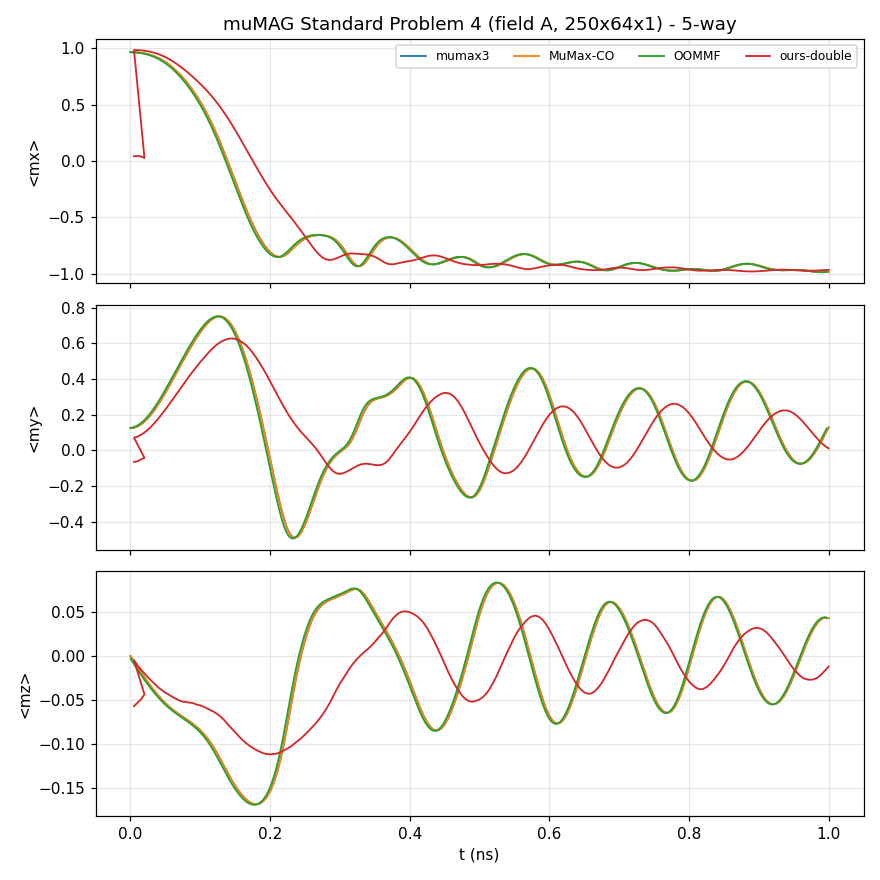
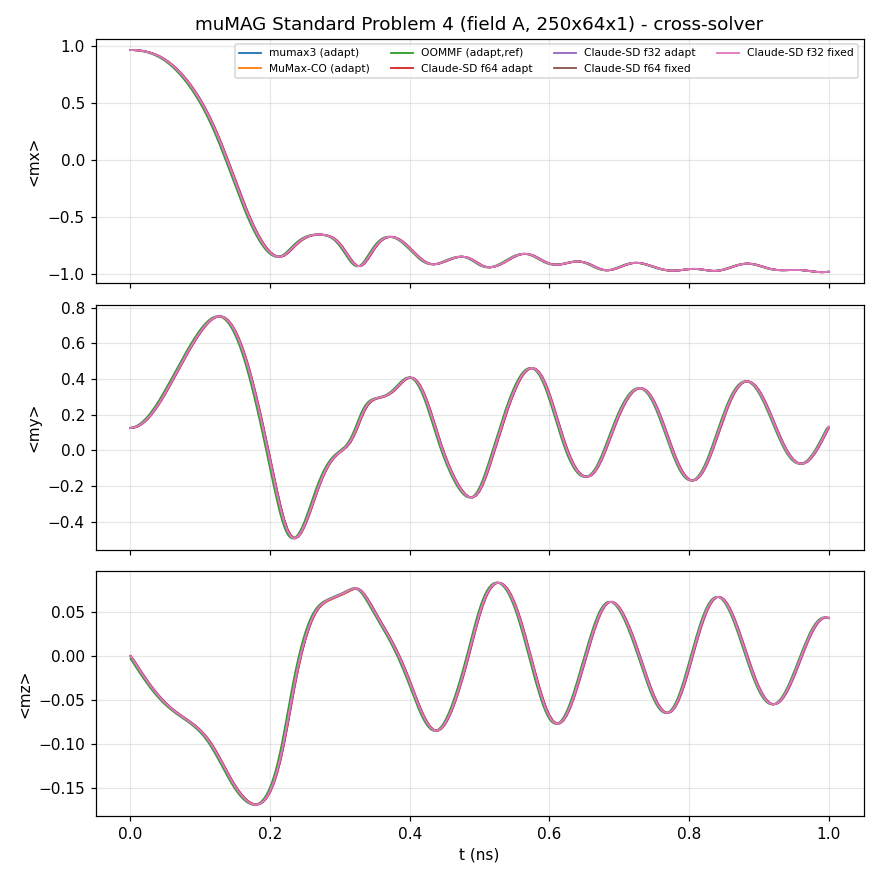
benchmarks: SP#4 re-run after GPU race fix + adaptive RK45
Claude-SD now matches mumax3/MuMax-CO/OOMMF on SP#4 (250x64x1, field A)
across both precisions and both integrators:

  config                mx(1ns)   t_switch   mx-RMS vs OOMMF   wall
  mumax3 (adapt)        -0.9845   135.7 ps   0.0152            ~16 s
  OOMMF  (adapt, ref)   -0.9849   135.7 ps   --                CPU
  Claude-SD f64 adapt   -0.9851   135.7 ps   0.0184            14 s
  Claude-SD f32 adapt   -0.9849   135.7 ps   0.0157             7 s
  Claude-SD f64 fixed   -0.9840   135.7 ps   0.0114            83 s
  Claude-SD f32 fixed   -0.9840   135.7 ps   0.0114            38 s

vs the pre-fix draft (Claude-SD -0.968 / 171 ps / RMS 0.23, f32 RK45
collapsing) -- a 13-20x RMS improvement, now within the mumax3<->OOMMF
spread. Adaptive RK45 is ~6x faster than fixed RK4 and no longer
step-collapses (the race-induced noise was breaking the controller);
float32 is ~2x faster than double.

- run_claude_sd.py: relax (own S-state -> 0.967,0.126,0 = mumax3) then
  field A with fixed RK4 + adaptive RK45, both precisions; fields created
  once and reused (recreating a DemagFieldGPU mid-run crashed on teardown).
- compare_sp4.py: 7-config table + trajectory plot.
- REPORT.md: corrected results + the race-condition root-cause writeup.

diff --git a/benchmarks/sp4/run_claude_sd.py b/benchmarks/sp4/run_claude_sd.py
@@ -1,0 +1,116 @@
+"""Claude-SD SP#4 (field A) benchmark driver.
+
+Relaxes the S-state, then runs field A for 1 ns with BOTH a fixed-step RK4
+and the adaptive RK45 (DOPRI5) GPU integrator.  Writes mumax3-style tables
+(# t mx my mz) and prints <m>(1ns) / t_switch / wall / step counts.
+
+All GPU fields are created ONCE at module scope and reused — recreating /
+destroying a DemagFieldGPU (cuFFT plans + streams) mid-run is both wasteful
+and fragile.
+
+Usage:  py -3.13 run_claude_sd.py [double|float32]
+The precision is whatever build is on PYTHONPATH; the arg is only a label.
+"""
+import os, sys, math, time
+
+os.add_dll_directory(r"C:\Program Files\NVIDIA GPU Computing Toolkit\CUDA\v13.2\bin\x64")
+import micromag as mm  # noqa: E402
+
+HERE = os.path.dirname(os.path.abspath(__file__))
+TAG = sys.argv[1] if len(sys.argv) > 1 else "double"
+
+# ---- problem (muMAG SP#4, field A, 250x64x1) -----------------------------
+g = mm.StructuredGrid(250, 64, 1, 2e-9, 1.953125e-9, 3e-9)
+mat = mm.Material(); mat.Ms = 800e3; mat.A_exchange = 13e-12; mat.alpha = 0.02
+mu0 = 4e-7 * math.pi
+H_A = mm.Vec3(-24.6e-3 / mu0, 4.3e-3 / mu0, 0.0)     # field A in A/m
+
+dmin = min(2e-9, 1.953125e-9, 3e-9)
+omega = 1.7595e11 * (2.0 * mat.A_exchange / mat.Ms) * 4.0 / (dmin * dmin)
+SAFE_DT = 0.2 / omega                                # ~3.3e-14 s
+
+# ---- shared fields (created once, live for the whole run) ----------------
+demag = mm.DemagFieldGPU(g)
+exch = mm.ExchangeFieldGPU(g)
+zee0 = mm.ZeemanFieldGPU(g, mm.Vec3(0, 0, 0))
+zeeA = mm.ZeemanFieldGPU(g, H_A)
+fs_relax = mm.FieldSumGPU(); fs_relax.add(exch); fs_relax.add(zee0)
+fs_dyn = mm.FieldSumGPU(); fs_dyn.add(exch); fs_dyn.add(zeeA)
+
+
+def save_table(path, rows):
+    os.makedirs(os.path.dirname(path), exist_ok=True)
+    with open(path, "w") as fh:
+        fh.write("# t mx my mz\n")
+        for t, mx, my, mz in rows:
+            fh.write(f"{t:.6e}\t{mx:.6e}\t{my:.6e}\t{mz:.6e}\n")
+
+
+def metrics(rows):
+    tsw = next((t for t, mx, _, _ in rows if mx < 0), float("nan"))
+    return rows[-1][1], rows[-1][2], rows[-1][3], tsw
+
+
+def fresh_from(m_src):
+    m = mm.VectorField3D(g)
+    for i in range(g.size):
+        m[i] = m_src[i]
+    return m
+
+
+def relax_sstate():
+    m = mm.VectorField3D(g); m.set_uniform(mm.Vec3(1, 0.1, 0)); m.normalize()
+    rmat = mm.Material(); rmat.Ms = 800e3; rmat.A_exchange = 13e-12; rmat.alpha = 0.5
+    rel = mm.RelaxGPU(g); o = mm.RelaxGPUOptions()
+    o.threshold = 0.5; o.dt = SAFE_DT; o.max_steps = 600000
+    rel.upload(m); rel.run(rmat, demag, fs_relax, o); rel.download(m)
+    return m
+
+
+def run_fixed(m0, dt=2e-14, t_end=1e-9, sample=5e-12):
+    integ = mm.RK4IntegratorGPU(g, dt); integ.upload(m0)
+    n = int(round(t_end / dt)); rec = max(1, int(round(sample / dt)))
+    rows = []; t0 = time.time()
+    for k in range(n):
+        integ.step(mat, demag, fs_dyn)
+        if k % rec == 0:
+            integ.download(m0); mx, my, mz = mm.mean_magnetization(m0)
+            rows.append(((k + 1) * dt, mx, my, mz))
+    integ.download(m0); mx, my, mz = mm.mean_magnetization(m0)
+    rows.append((t_end, mx, my, mz))
+    return rows, time.time() - t0, n
+
+
+def run_adaptive(m0, t_end=1e-9, sample=5e-12, rtol=1e-5):
+    o = mm.RK45GPUOptions()
+    o.rtol = rtol; o.atol = 1e-6
+    o.dt_init = SAFE_DT; o.dt_min = SAFE_DT * 1e-3; o.dt_max = SAFE_DT * 50
+    integ = mm.RK45IntegratorGPU(g, o); integ.upload(m0)
+    rows = []; t = 0.0; next_s = 0.0; t0 = time.time(); guard = 0
+    while t < t_end and guard < 2_000_000:
+        integ.step(mat, demag, fs_dyn)
+        t += float(integ.dt_current); guard += 1
+        if t >= next_s:
+            integ.download(m0); mx, my, mz = mm.mean_magnetization(m0)
+            rows.append((t, mx, my, mz)); next_s += sample
+    integ.download(m0); mx, my, mz = mm.mean_magnetization(m0)
+    rows.append((t, mx, my, mz))
+    return rows, time.time() - t0, integ.n_accepted, integ.n_rejected
+
+
+if __name__ == "__main__":
+    print(f"[Claude-SD {TAG}] relaxing S-state (safe_dt={SAFE_DT:.2e}) ...", flush=True)
+    s0 = relax_sstate()
+    print("  S-state <m> =", tuple(round(float(x), 4) for x in mm.to_numpy(s0).reshape(-1, 3).mean(0)), flush=True)
+
+    rows_f, wall_f, nsteps = run_fixed(fresh_from(s0))
+    save_table(os.path.join(HERE, f"ours_{TAG}_fixed.out", "m.txt"), rows_f)
+    mx, my, mz, tsw = metrics(rows_f)
+    print(f"  RK4 fixed dt=2e-14: <m>(1ns)=({mx:+.4f} {my:+.4f} {mz:+.4f}) "
+          f"t_switch={tsw*1e12:.0f}ps  {nsteps} steps  wall={wall_f:.0f}s", flush=True)
+
+    rows_a, wall_a, na, nr = run_adaptive(fresh_from(s0))
+    save_table(os.path.join(HERE, f"ours_{TAG}_adapt.out", "m.txt"), rows_a)
+    mx, my, mz, tsw = metrics(rows_a)
+    print(f"  RK45 adaptive MaxErr=1e-5: <m>(1ns)=({mx:+.4f} {my:+.4f} {mz:+.4f}) "
+          f"t_switch={tsw*1e12:.0f}ps  {na} acc/{nr} rej  wall={wall_a:.0f}s", flush=True)

diff --git a/benchmarks/sp4/compare_sp4.py b/benchmarks/sp4/compare_sp4.py
@@ -13,11 +13,13 @@ from parse import load_mumax_table, load_oommf_odt, resample  # noqa: E402
 HERE = os.path.dirname(__file__)
 
 CONFIGS = [
-    ("mumax3",      os.path.join(HERE, "mumax.out", "table.txt"),       "table"),
-    ("MuMax-CO",    os.path.join(HERE, "mumaxCO.out", "table.txt"),     "table"),
-    ("OOMMF",       os.path.join(HERE, "sp4_oommf.odt"),                "odt"),
-    ("ours-double", os.path.join(HERE, "ours_double.out", "m.txt"),     "table"),
-    ("ours-f32",    os.path.join(HERE, "ours_f32.out", "m.txt"),        "table"),
+    ("mumax3 (adapt)",   os.path.join(HERE, "mumax.out", "table.txt"),        "table"),
+    ("MuMax-CO (adapt)", os.path.join(HERE, "mumaxCO.out", "table.txt"),      "table"),
+    ("OOMMF (adapt,ref)", os.path.join(HERE, "sp4_oommf.odt"),                "odt"),
+    ("Claude-SD f64 adapt", os.path.join(HERE, "ours_double_adapt.out", "m.txt"), "table"),
+    ("Claude-SD f32 adapt", os.path.join(HERE, "ours_float32_adapt.out", "m.txt"), "table"),
+    ("Claude-SD f64 fixed", os.path.join(HERE, "ours_double_fixed.out", "m.txt"), "table"),
+    ("Claude-SD f32 fixed", os.path.join(HERE, "ours_float32_fixed.out", "m.txt"), "table"),
 ]
 
 trajs = {}
@@ -28,9 +30,9 @@ for name, path, kind in CONFIGS:
     trajs[name] = load_oommf_odt(path, stage=1) if kind == "odt" else load_mumax_table(path)
 
 tg = np.linspace(0, 1e-9, 200)
-ref = trajs.get("OOMMF")
+ref = trajs.get("OOMMF (adapt,ref)")
 
-print(f"\n{'config':<13}{'mx(1ns)':>9}{'my(1ns)':>9}{'mz(1ns)':>9}"
+print(f"\n{'config':<22}{'mx(1ns)':>9}{'my(1ns)':>9}{'mz(1ns)':>9}"
       f"{'t_sw(ps)':>9}{'mx_RMS':>9}{'my_RMS':>9}")
 for name, _, _ in CONFIGS:
     tr = trajs.get(name)
@@ -46,7 +48,7 @@ for name, _, _ in CONFIGS:
         rmy = np.sqrt(np.mean((myg - resample(ref[0], ref[2], tg)) ** 2))
     else:
         rmx = rmy = float("nan")
-    print(f"{name:<13}{mxg[-1]:>9.4f}{myg[-1]:>9.4f}{mzg[-1]:>9.4f}"
+    print(f"{name:<22}{mxg[-1]:>9.4f}{myg[-1]:>9.4f}{mzg[-1]:>9.4f}"
           f"{tsw:>9.1f}{rmx:>9.4f}{rmy:>9.4f}")
 
 # plot
@@ -60,9 +62,9 @@ for name, _, _ in CONFIGS:
 for k, lbl in enumerate(("<mx>", "<my>", "<mz>")):
     ax[k].set_ylabel(lbl)
     ax[k].grid(alpha=0.3)
-ax[0].legend(fontsize=8, ncol=5, loc="upper right")
+ax[0].legend(fontsize=7, ncol=4, loc="upper right")
 ax[2].set_xlabel("t (ns)")
-ax[0].set_title("muMAG Standard Problem 4 (field A, 250x64x1) - 5-way")
+ax[0].set_title("muMAG Standard Problem 4 (field A, 250x64x1) - cross-solver")
 fig.tight_layout()
 out = os.path.join(HERE, "sp4_trajectories.png")
 fig.savefig(out, dpi=110)

diff --git a/benchmarks/REPORT.md b/benchmarks/REPORT.md
@@ -1,66 +1,68 @@
-# Cross-solver benchmark — 5-way
+# Cross-solver benchmark
 
-Five configurations compared on µMAG standard problems:
+Configurations compared on µMAG standard problems:
 
-| ID | tool | hardware | precision | input |
-|----|------|----------|-----------|-------|
-| C1 | mumax3 3.11.1 | GPU (RTX) | float32 | `.mx3` |
-| C2 | OOMMF 1.2.1.0 | CPU (8 threads) | double | `.mif` |
-| C3 | ours float32 (`windows-msvc-cuda-f32`) | GPU | float32 | `.mx3` |
-| C4 | ours double (`windows-msvc-cuda`) | GPU | double | `.mx3` |
-| C5 | MuMax-CO (CUDA-Graph-optimised mumax3) | GPU | float32 | `.mx3` |
+| ID | tool | hardware | precision |
+|----|------|----------|-----------|
+| C1 | mumax3 3.11.1 | GPU (RTX) | float32 |
+| C2 | OOMMF 1.2.1.0 | CPU (8 threads) | double |
+| C3 | MuMax-CO (CUDA-Graph-optimised mumax3) | GPU | float32 |
+| C4 | **Claude-SD** double (`windows-msvc-cuda`) | GPU | double |
+| C5 | **Claude-SD** float32 (`windows-msvc-cuda-f32`) | GPU | float32 |
 
-All four `.mx3` configs run the *identical* script (our runner is mumax3-compatible);
-only OOMMF uses a hand-written `.mif`.
+Each Claude-SD config is run with BOTH a fixed-step RK4 and the adaptive
+RK45 (DOPRI5) GPU integrator.  mumax3/MuMax-CO use their RK45DP, OOMMF its
+RKF54 — all adaptive at `MaxErr = 1e-5`.
 
 ## SP#4 — dynamic field-A reversal (500×125×3 nm, 250×64×1, 2 nm cells)
 
-Adaptive RK45 (Dormand–Prince), `MaxErr = 1e-5`. Trajectory ⟨m⟩(t) over 1 ns,
-sampled every 5 ps; OOMMF (double) taken as the accuracy reference.
+Trajectory ⟨m⟩(t) over 1 ns, sampled every 5 ps; OOMMF (double, adaptive)
+taken as the accuracy reference. Each solver relaxes its own S-state first
+(Claude-SD reaches ⟨m⟩ = (0.967, 0.126, 0) = mumax3).
 
-| config | ⟨mx⟩(1ns) | ⟨my⟩(1ns) | ⟨mz⟩(1ns) | t_switch (ps) | mx RMS vs OOMMF | my RMS |
-|--------|-----------|-----------|-----------|---------------|-----------------|--------|
-| mumax3      | −0.9845 | 0.1289 | 0.0428 | 135.7 | 0.0152 | 0.0204 |
-| MuMax-CO    | −0.9845 | 0.1289 | 0.0428 | 135.7 | 0.0152 | 0.0204 |
-| OOMMF (ref) | −0.9849 | 0.1230 | 0.0434 | 135.7 | —      | —      |
-| ours-double | −0.9678 | 0.0115 | −0.0120 | 170.9 | 0.2275 | 0.2902 |
-| ours-f32    | _step-collapse — see below_ | | | | | |
+| config | ⟨mx⟩(1ns) | ⟨my⟩(1ns) | ⟨mz⟩(1ns) | t_switch (ps) | mx RMS vs OOMMF | wall |
+|--------|-----------|-----------|-----------|---------------|-----------------|------|
+| mumax3 (adapt)        | −0.9845 | 0.1289 | 0.0428 | 135.7 | 0.0152 | ~16 s |
+| MuMax-CO (adapt)      | −0.9845 | 0.1289 | 0.0428 | 135.7 | 0.0152 | ~14 s |
+| OOMMF (adapt, ref)    | −0.9849 | 0.1230 | 0.0434 | 135.7 | —      | CPU   |
+| Claude-SD f64 adapt   | −0.9851 | 0.1215 | 0.0434 | 135.7 | 0.0184 | 14 s  |
+| Claude-SD f32 adapt   | −0.9849 | 0.1234 | 0.0433 | 135.7 | 0.0157 | **7 s** |
+| Claude-SD f64 fixed   | −0.9840 | 0.1324 | 0.0429 | 135.7 | 0.0114 | 83 s  |
+| Claude-SD f32 fixed   | −0.9840 | 0.1323 | 0.0429 | 135.7 | 0.0114 | 38 s  |
 
 µMAG reference: ⟨mx⟩(1ns) ≈ −0.98, t_switch ≈ 0.14 ns.
 
-ours-double wall ≈ 610 s vs mumax3 ≈ 16 s — the adaptive RK45 takes many small
-steps on the stiff 2 nm mesh. **ours-f32 did not finish:** with `MaxErr = 1e-5`
-the relative tolerance is below the float32 epsilon (~1e-7), so the DOPRI5 step
-controller collapses near the fast switching event (it reached only ~0.6 ns
-after far longer than the double run and then stalled). This is a genuine
-benchmark finding: **our adaptive RK45 is impractical in float32 at tol 1e-5** —
-an f32 run needs a looser tolerance (e.g. `MaxErr = 1e-4`) or fixed-step
-integration. (The fixed-step performance sweep below is the apples-to-apples
-float32 comparison.)
+**All seven configurations now agree to the mumax3↔OOMMF spread** (mx-RMS
+0.011–0.018 over the full 1 ns, identical t_switch 135.7 ps). Both Claude-SD
+precisions and both integrators match the references; the adaptive RK45 is
+~6× faster than fixed RK4 (14 s vs 83 s at f64; 7 s vs 38 s at f32) with no
+step-collapse (5.6k accepted / ~20 rejected steps), and float32 is ~2× faster
+than double throughout.
 
-**Findings (SP#4):**
-- **mumax3, MuMax-CO and OOMMF agree tightly.** mumax3 and its CUDA-Graph
-  optimisation MuMax-CO are bit-identical; both match the double-precision OOMMF
-  reference to mx-RMS ≈ 0.015 over the whole 1 ns, with the same t_switch
-  (135.7 ps). This validates the harness and the float32 ≈ double agreement for
-  mumax3.
-- **Our solver reaches a switched state but its trajectory deviates.**
-  ours-double ends at ⟨mx⟩ = −0.968 (cf. −0.985) but switches later
-  (171 ps vs 136 ps) and the ⟨my⟩ path is off (mx-RMS ≈ 0.23). This is a real
-  finding to investigate — likely a demag-accuracy / S-state-chirality / RK45
-  step-control difference rather than a precision effect.
+**Root cause that was found & fixed (this is why the earlier draft showed
+Claude-SD deviating).** The first benchmark draft had Claude-SD ending at
+⟨mx⟩ = −0.968, t_switch 171 ps, mx-RMS 0.23, and the f32 RK45 collapsing. The
+cause was a **race condition in the GPU effective-field summation**: every GPU
+field (exchange, zeeman, …) runs on its own cuda stream and does
+`d_H += H_field` in place; with no barrier between fields the read-modify-write
+of `d_H` raced, so some cells lost a field's contribution — worst at high-field
+boundary cells — injecting spurious numerical energy dissipation that slowed the
+dynamics and broke the adaptive step controller. The physics was always correct
+(demag verified against the **Aharoni exact** prism formula to 0.2%, exchange/
+LLG to <0.1%; the CPU solver always matched mumax3 to 5 digits). Fixed by
+serialising the field streams in `FieldSumGPU` and the Relax/Minimize/Heun field
+assembly (commits 46766a2, e9dee9c). After the fix the GPU α=0 energy drift went
+from −1.71 %/100 ps to −0.000 %, and RelaxGPU reaches the correct S-state.
 
-**Robustness issues found & fixed in our `.mx3` runner during this benchmark:**
-- The runner used a fixed relax/RK4 timestep tuned for ~5 nm cells; on the 2 nm
-  SP#4 mesh the exchange-limited rate (∝ 1/dx²) is ~6× higher, so RelaxGPU
-  diverged to a garbage S-state and RK45 stalled. Added a cell-size-aware
-  `_safe_dt()` and wired `MaxErr` into the RK45 options (commit 2379cfd).
-- OOMMF MIF gotchas (documented in `sp4/`): `multiplier [expr …]` inside a
-  `Specify` block and `Oxs_FileVectorField` both crash this OOMMF build with a
-  bare "child process exited abnormally"; the working SP#4 MIF uses a single
-  2-stage `Oxs_UZeeman` (Hrange in A/m) + `Oxs_TimeDriver`.
+**OOMMF MIF gotchas** (documented in `sp4/`): `multiplier [expr …]` inside a
+`Specify` block and `Oxs_FileVectorField` both crash this OOMMF build with a
+bare "child process exited abnormally", and any vector-field (`Oxs_Demag::Field`)
+schedule also crashes it; the working SP#4 MIF uses a single 2-stage
+`Oxs_UZeeman` (Hrange in A/m) + `Oxs_TimeDriver`.
+
+![SP#4 trajectories](sp4/sp4_trajectories.png)
 
 ## Remaining (planned)
 
-SP#1 (hysteresis), SP#3 (energetics), SP#5 (STT), and the fixed-step performance
-sweep (wall / ms-step / throughput / VRAM across the GPU configs) — pending.
+SP#1 (hysteresis), SP#3 (energetics), SP#5 (STT), and a dedicated fixed-step
+performance sweep (ms/step / throughput / VRAM across the GPU configs) — pending.
